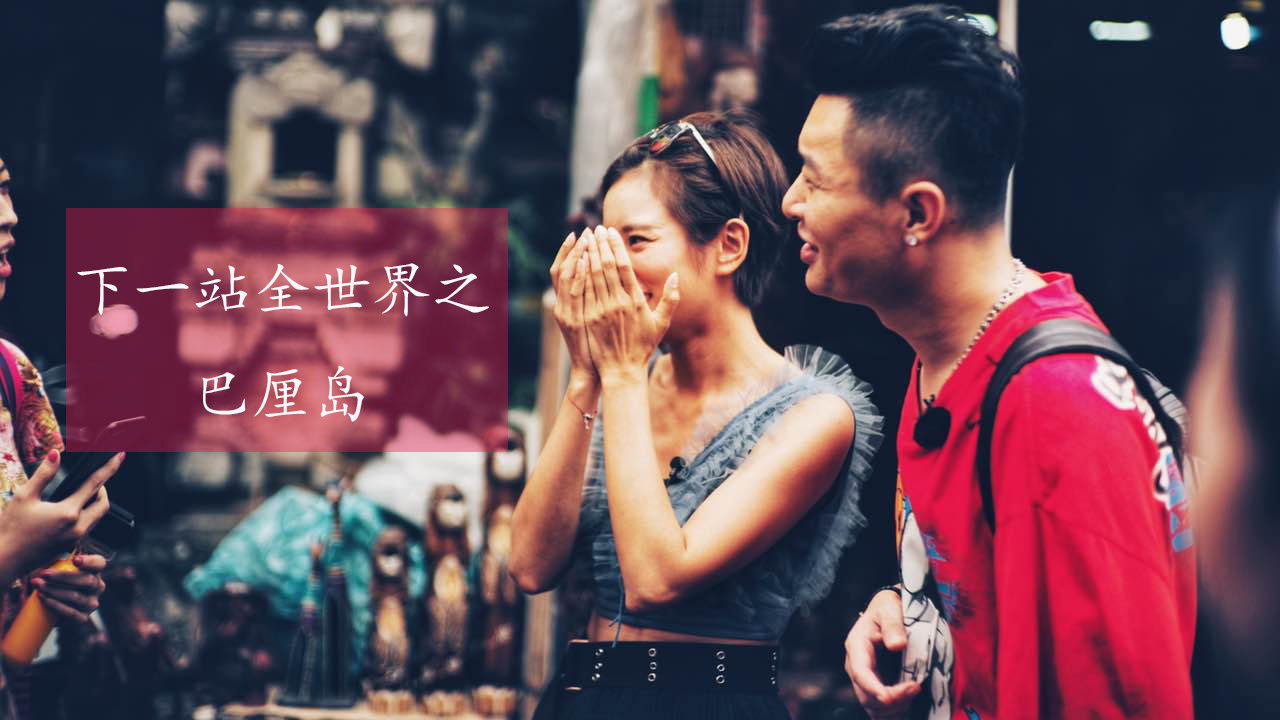
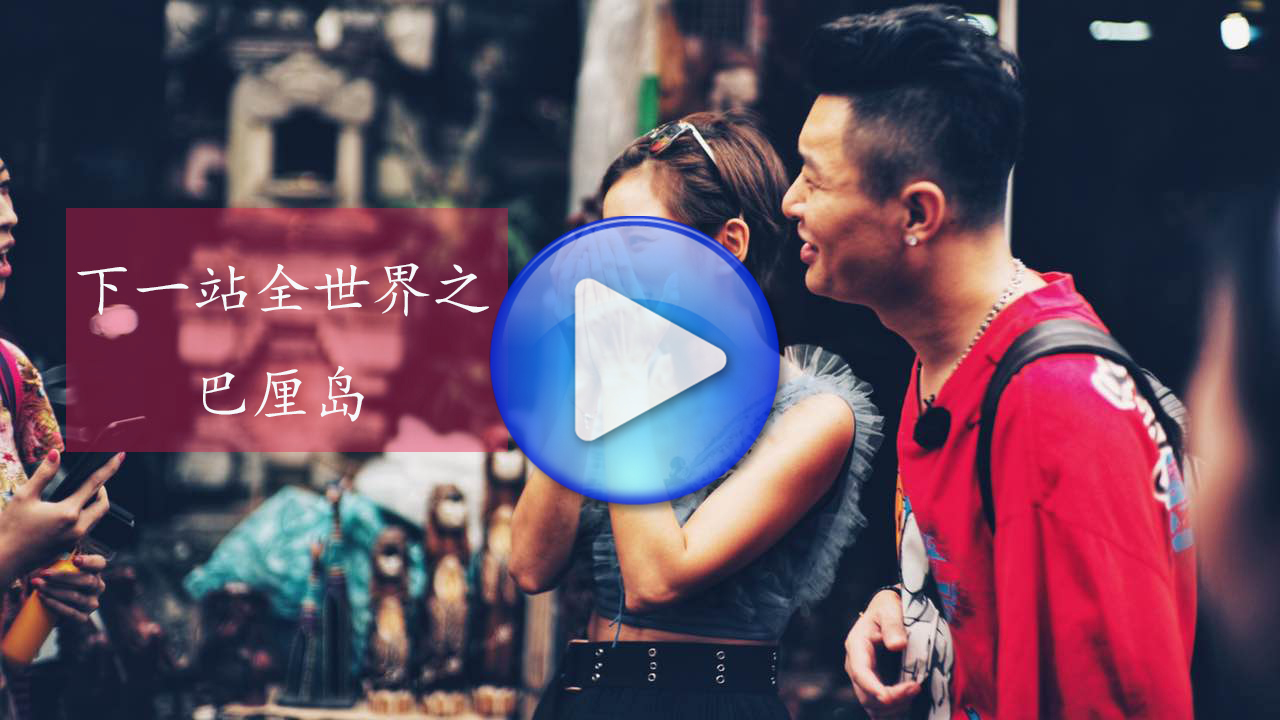
样式

Changed region(s): [[0.375, 0.275, 0.625, 0.7333]]

diff --git a/public/javascripts/main.js b/public/javascripts/main.js
@@ -43,4 +43,18 @@ $(document).ready(function(){
   $('.sign-btn').on('click',function () {
     window.location.href="sign"
   })
+  //播放视频
+
+    var x = document.getElementsByClassName('brazil-play');
+    function playVid() {
+      console.log('hhh');
+      x.play();
+    }
+
+  $('.intro-japan-btn').on('click',function () {
+    $('.japan-play').play();
+  })
+  $('.intro-balidao-btn').on('click',function () {
+    $('.balidao-play').play();
+  })
 });

diff --git a/public/stylesheets/next.css b/public/stylesheets/next.css
@@ -24,8 +24,12 @@ html,body{
   width: 23%;
   margin: 5px 0;
 }
+.img-intro-btn{
+  width: 90%;
+}
 .vedio-play{
   width: 90%;
+  display: none;
 }
 .vedio-box{
   background-color: green;
